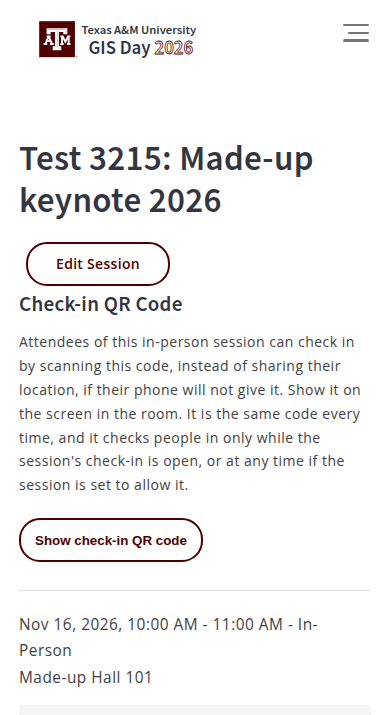
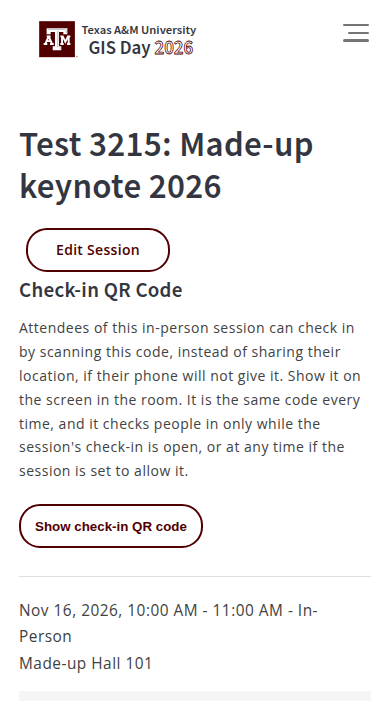
docs(gisday): After images of the Edit Session button with the title back at the left (#3220)
Taken again at e6169b830 (lab, batch 139) on the same made-up scratch data, signed in as the local
test admin (GIS Day Admin) with the account masked, and signed out. The title starts at x 70 in all
three views at 1280, as before; the button sits at the right of the row, beside the 73-character
title too, and under the title at 390 and 360. The edit form's capture was byte-identical, so it is
not replaced.

diff --git a/docs/releases/unreleased/3220-edit-session-button.md b/docs/releases/unreleased/3220-edit-session-button.md
@@ -14,7 +14,8 @@ button beside the session's title, which opens its edit form. Nobody else sees i
 
 | Before | After |
 | --- | --- |
-| ![A made-up session's page signed in as a GIS Day admin: its title at the left, then the check-in QR code section and the time and place, with no Edit session button](../screenshots/3220-edit-session-button/before-organizer.png) | ![The same page signed in as a GIS Day admin: an Edit Session button on the title's row, the title moved in from the left edge](../screenshots/3220-edit-session-button/after-organizer.png) |
+| ![A made-up session's page signed in as a GIS Day admin: its title at the left, then the check-in QR code section and the time and place, with no Edit session button](../screenshots/3220-edit-session-button/before-organizer.png) | ![The same page signed in as a GIS Day admin: the title at the left as before, and an Edit Session button at the right of its row](../screenshots/3220-edit-session-button/after-organizer.png) |
+| | ![A made-up session with a title of 73 characters, signed in as a GIS Day admin: the title on two lines at the left, and the Edit Session button beside it at the right](../screenshots/3220-edit-session-button/after-organizer-long.png) |
 | | ![The page the button opens: the made-up session's edit form under Admin → Events, Update Event, its day, times, check-in minutes, name and abstract](../screenshots/3220-edit-session-button/after-edit-form.png) |
-| | ![The same session's page signed out: no Edit session button and no check-in QR code, the title centred](../screenshots/3220-edit-session-button/after-signed-out.png) |
+| | ![The same session's page signed out: no Edit Session button and no check-in QR code, the title at the left as before](../screenshots/3220-edit-session-button/after-signed-out.png) |
 | | ![The same page on a phone, 390 pixels wide, signed in as a GIS Day admin: the Edit Session button under the title, nothing past the right edge](../screenshots/3220-edit-session-button/after-organizer-phone.png) |
